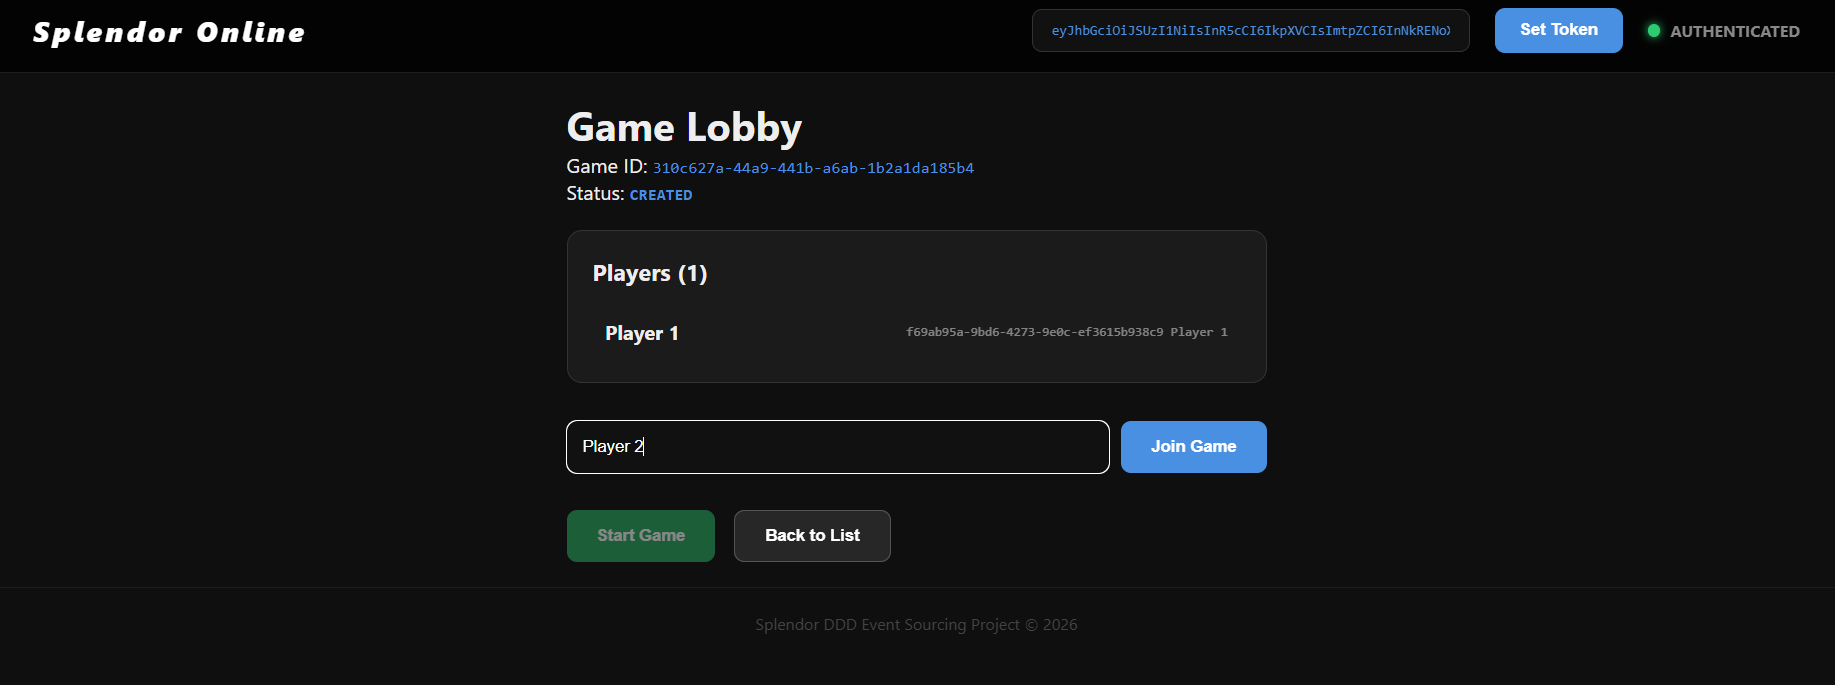
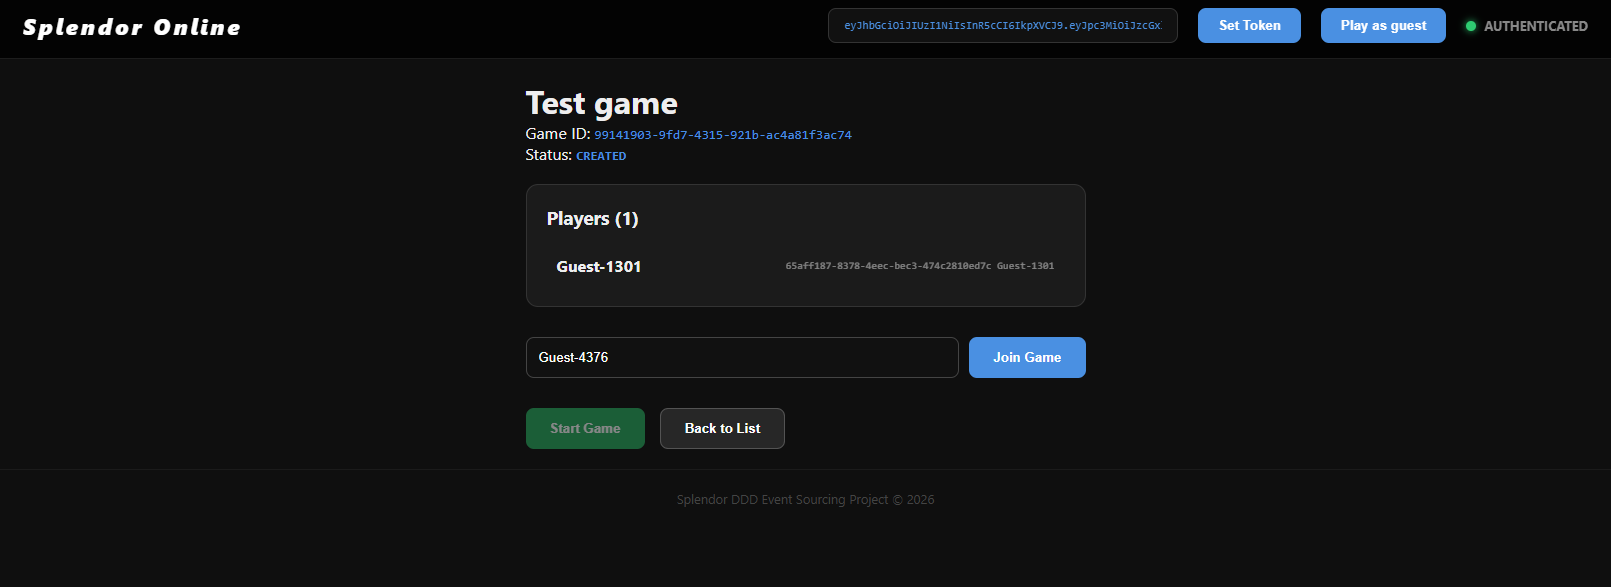
docs: emphasize cold start wait and refresh screenshots

diff --git a/README.md b/README.md
@@ -9,7 +9,8 @@
 
 **[Play online](https://splendoronlinegame-web.onrender.com)**: click **Play as guest**, create a game and use **Add bot** to get an opponent.
 
-> The app runs on free tiers. After 15 minutes of inactivity Render puts the API to sleep, so the first request can take up to a minute. Guest sessions last 60 minutes, and up to 10 guests can be active at once.
+> [!WARNING]
+> **The first load can take up to a minute.** The app runs on free tiers: after 15 minutes of inactivity Render puts the API to sleep, and the first request has to wake it up. Please be patient, later requests are fast. Guest sessions last 60 minutes, and up to 10 guests can be active at once.
 
 ### Deployment
 
